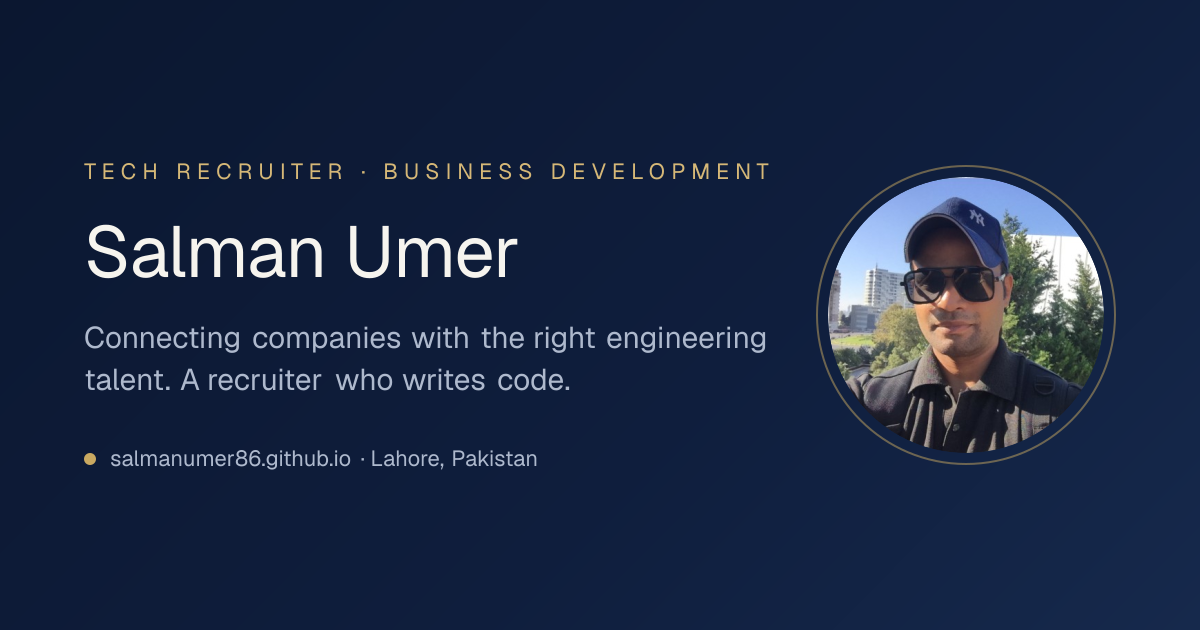
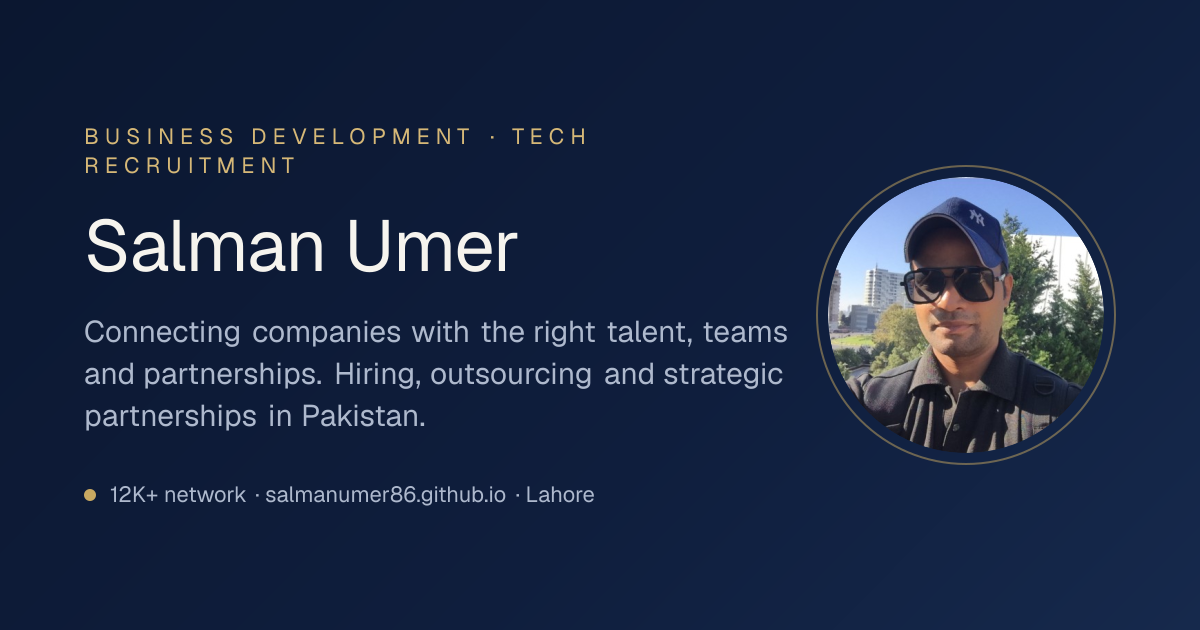
Reposition portfolio around business development and partnerships
- Hero, about, services and contact copy lead with BD, outsourcing and
  partnerships; recruiting and "writes code" stay as the differentiator
- Services reordered, LinkedIn Profile Optimization as its own card
- "Who I work with" list in the About section
- Stats and languages match the LinkedIn profile (12K+ network, 5 languages)
- Hero CTAs prefill the contact form topic (#contact?topic=…)
- Refreshed OG image, meta description, Person schema and blog teaser copy

diff --git a/app/page.tsx b/app/page.tsx
@@ -63,12 +63,21 @@ const testimonials: Testimonial[] = [
 ];
 
 const services = [
-  { no: "01", ic: "◎", title: "Tech Talent Sourcing & Screening", body: "Finding, vetting, and shortlisting software engineers who match your stack, seniority, and team culture, not just keywords on a résumé." },
-  { no: "02", ic: "</>", title: "Hiring Frontend & Full-Stack Developers", body: "Specialist support for hiring React, Next.js, and React Native talent. I speak the language, so I filter signal from noise before you spend interview time." },
-  { no: "03", ic: "✎", title: "Résumé / CV Review & Optimization", body: "Sharpening developer résumés so they clear the screening bar, with clear impact, the right keywords, and a story that recruiters and hiring managers act on." },
-  { no: "04", ic: "in", title: "LinkedIn Profile Improvement", body: "Positioning developers to be found and taken seriously, with a headline, summary, and experience that turn profile views into real conversations." },
-  { no: "05", ic: "➜", title: "Job-Search Guidance for Developers", body: "Practical coaching for engineers navigating the market: where to apply, how to interview, and how to evaluate an offer that's actually right for you." },
-  { no: "06", ic: "⇄", title: "Hiring Partnerships & Outsourcing", body: "Building long-term partnerships between companies and skilled development teams, so you get a reliable talent pipeline instead of one-off, transactional hires." },
+  { no: "01", ic: "⇄", title: "Business Development & Client Partnerships", body: "Opening doors between companies, technology talent and software development opportunities — warm introductions built on working relationships, not cold lists." },
+  { no: "02", ic: "◎", title: "Software Development Outsourcing", body: "Matching businesses with reliable development teams in Pakistan, and helping software companies win the right clients. I stay involved after the contract is signed." },
+  { no: "03", ic: "</>", title: "Tech Recruitment & Talent Sourcing", body: "Sourcing, screening and shortlisting frontend and full-stack engineers — React, Next.js, React Native — who match your stack, seniority and team, not just keywords." },
+  { no: "04", ic: "✚", title: "Technology Hiring Support", body: "Strengthening technical teams for startups, founders and CTOs: from a single senior hire to building out a whole squad, with a shortlist that holds up in the interview room." },
+  { no: "05", ic: "in", title: "LinkedIn Profile Optimization", body: "Positioning developers and founders to be found and taken seriously — a headline, summary and experience section that turn profile views into real conversations." },
+  { no: "06", ic: "✎", title: "CV Optimization & Career Guidance", body: "Sharpening developer résumés to clear the screening bar, plus practical guidance on where to apply, how to interview and how to evaluate an offer." },
+];
+
+const audiences = [
+  "Startups and growing companies",
+  "Founders and business owners",
+  "CTOs and engineering leaders",
+  "HR & talent acquisition teams",
+  "Software development companies",
+  "Companies seeking reliable outsourcing partners",
 ];
 
 const timeline = [
@@ -78,8 +87,8 @@ const timeline = [
     co: "Jazzari",
     now: true,
     body: [
-      "Handling the commercial side: finding clients, understanding what they need built, and matching them with engineers who can build it. Sourcing, screening and shortlisting developers, and building outsourcing partnerships with companies in Pakistan and abroad.",
-      "I also work hands-on in the frontend codebase — React, Next.js and React Native on Firebase — which is where the technical judgement comes from.",
+      "Jazzari is a software services company. I handle the commercial side: finding clients, understanding what they need built, and matching them with engineers who can build it — sourcing, screening and shortlisting engineers for client roles, building outsourcing and hiring partnerships with companies in Pakistan and abroad, and running the hiring process end to end.",
+      "Three years of writing frontend code at Jazzari is what got me into business development, and it's what makes me good at it. When a client describes what they want built, I can hear what they actually need, tell whether the scope matches the budget, and push back on a timeline that won't hold. Clients stay because the first conversation was honest.",
     ],
   },
   { date: "Nov 2018 — Aug 2023", title: "Family Business Operations", co: "Events Management", body: ["Stepped away from formal employment to look after the family events management business — day-to-day operations, client coordination, vendor and supplier relationships, and general administration."] },
@@ -101,7 +110,7 @@ const personLd = {
   worksFor: { "@type": "Organization", name: site.company },
   address: { "@type": "PostalAddress", addressLocality: site.location.city, addressCountry: site.location.countryCode },
   sameAs: [site.linkedin],
-  knowsAbout: ["Technical Recruiting", "Business Development", "React", "Next.js", "React Native", "Firebase"],
+  knowsAbout: ["Business Development", "B2B Partnerships", "Software Outsourcing", "Lead Generation", "Technical Recruiting", "React", "Next.js", "React Native"],
   alumniOf: { "@type": "CollegeOrUniversity", name: "University of the Punjab" },
 };
 
@@ -120,25 +129,25 @@ export default function Home() {
       <header className="hero">
         <div className="wrap hero-grid">
           <div className="hero-copy">
-            <span className="eyebrow">Tech Recruiter · Business Development</span>
+            <span className="eyebrow">Business Development · Tech Recruitment · Partnerships</span>
             <h1 className="hero-title">
-              Connecting companies with the <span className="gold">right</span> engineering talent.
+              Connecting companies with the <span className="gold">right</span> talent, teams and partnerships.
             </h1>
             <p className="hero-sub">
-              I help startups and growing companies hire skilled software engineers faster, and I guide developers toward the roles where they&apos;ll do their best work. A recruiter who writes code himself.
+              I help companies hire software engineers, outsource development and build long-term technology partnerships that create real business opportunities. And I write code myself, so I know who delivers.
             </p>
             <div className="hero-cta">
-              <a className="btn btn-gold" href="#contact">
+              <a className="btn btn-gold" href="#contact?topic=Hiring%20software%20engineers">
                 Let&apos;s talk hiring →
               </a>
-              <a className="btn btn-ghost" href="#services">
-                View what I do
+              <a className="btn btn-ghost" href="#contact?topic=Partnership%20%2F%20outsourcing">
+                Explore a partnership
               </a>
             </div>
             <div className="hero-trust">
               <span className="tdot" />
               <span>
-                <b>3 years</b> writing React alongside the recruiting
+<b>12K+ network</b> · working relationships with reputable software companies across Pakistan
               </span>
             </div>
             <div className="hero-loc">
@@ -151,7 +160,7 @@ export default function Home() {
             </div>
             <span className="badge">
               <span className="bdot" />
-              Recruiter <em className="grow">who codes</em>
+              Talent &amp; partnerships <em className="grow">that last</em>
             </span>
           </div>
         </div>
@@ -165,11 +174,11 @@ export default function Home() {
             <span>Writing React</span>
           </div>
           <div className="stat">
-            <b>Dual</b>
-            <span>Recruiter + developer</span>
+            <b data-count="12" data-suffix="K+">12K+</b>
+            <span>Professional network</span>
           </div>
           <div className="stat">
-            <b data-count="3">3</b>
+            <b data-count="5">5</b>
             <span>Languages spoken</span>
           </div>
           <div className="stat">
@@ -185,28 +194,37 @@ export default function Home() {
           <div>
             <span className="eyebrow">About</span>
             <h2 className="sec-title">
-              Hiring is about people <span className="em">and</span> product. I understand both.
+              People, product <span className="em">and</span> partnerships. I work across all three.
             </h2>
             <div className="about-body">
               <p>
-                I help startups and growing companies hire the right tech talent faster, and I guide developers toward the opportunities where they&apos;ll thrive. With experience across both <strong>technical and non-technical recruitment</strong>, I know what companies actually need and what separates a strong candidate from an average one.
+                I connect companies with the right technology talent and help build <strong>partnerships that create long-term business opportunities</strong>. I work with companies looking to hire software engineers, strengthen their technical teams, outsource development, or build reliable technology partnerships.
               </p>
               <p>
                 What makes my approach different is that I write code alongside the recruiting — <strong>React, Next.js and React Native</strong>, hands-on, week to week. I&apos;m not going to claim I can grade a senior engineer&apos;s architecture. What I can do is read their repo, follow the conversation, and ask a second question instead of nodding at a buzzword. That&apos;s usually enough to keep the wrong people off your shortlist, which is where most of the value in screening sits.
               </p>
+              <p>I&apos;m also passionate about helping developers navigate the job market through CV optimization, LinkedIn positioning, and career opportunities.</p>
               <p>Before recruiting I spent years in operations and database administration, running teams and processes rather than writing job specs. That&apos;s where the read on people comes from.</p>
               <p>
-                At <strong>Jazzari</strong>, I focus on business development and building lasting hiring partnerships between companies and skilled developers.
+                At <strong>Jazzari Software Solutions</strong>, I focus on business development and building connections between companies, technology talent, and software development opportunities.
               </p>
+            </div>
+            <div className="audiences">
+              <h4>Who I work with</h4>
+              <ul>
+                {audiences.map((a) => (
+                  <li key={a}>{a}</li>
+                ))}
+              </ul>
             </div>
           </div>
           <aside className="about-card">
             <h3>At a glance</h3>
-            <div className="row"><span>Role</span><b>Tech Recruiter &amp; BD Specialist</b></div>
-            <div className="row"><span>Company</span><b>Jazzari</b></div>
+            <div className="row"><span>Role</span><b>BD &amp; Tech Recruitment Specialist</b></div>
+            <div className="row"><span>Company</span><b>Jazzari Software Solutions</b></div>
             <div className="row"><span>Based in</span><b>Lahore, Pakistan</b></div>
             <div className="row"><span>Hands-on</span><b>React · Next.js · React Native</b></div>
-            <div className="row"><span>Also</span><b>Frontend Developer</b></div>
+            <div className="row"><span>Focus</span><b>Hiring · Outsourcing · Partnerships</b></div>
             <div className="row"><span>Status</span><b><span className="live">●</span> Open to collaborations</b></div>
           </aside>
         </div>
@@ -216,9 +234,9 @@ export default function Home() {
       <section className="section light" id="services" style={{ paddingTop: 0 }}>
         <div className="wrap">
           <div className="sec-head center reveal">
-            <span className="eyebrow center">What I help with</span>
-            <h2 className="sec-title">Recruiting, business development &amp; career guidance</h2>
-            <p>End-to-end support for the two sides of tech hiring: the companies who need talent, and the developers looking for their next move.</p>
+            <span className="eyebrow center">What I do</span>
+            <h2 className="sec-title">Business development, hiring &amp; outsourcing</h2>
+            <p>Support for companies that need talent, teams or partners — and for the developers and software houses on the other side of the table.</p>
           </div>
           <div className="svc-grid stagger-grid">
             {services.map((s) => (
@@ -361,12 +379,14 @@ export default function Home() {
         <div className="wrap le-grid reveal">
           <div>
             <span className="eyebrow">Languages</span>
-            <h2 className="sec-title">Fluent across three languages</h2>
+            <h2 className="sec-title">Five languages, three of them fluently</h2>
             <div className="langs" style={{ marginTop: 26 }}>
               {[
                 ["Urdu", "100%", "Native / Bilingual"],
                 ["Punjabi", "92%", "Full Professional"],
                 ["English", "85%", "Professional Working"],
+                ["Arabic", "40%", "Limited Working"],
+                ["Azerbaijani", "40%", "Limited Working"],
               ].map(([name, w, lvl]) => (
                 <div className="lang-row" key={name}>
                   <span className="name">{name}</span>
@@ -396,7 +416,7 @@ export default function Home() {
             <h2>
               Let&apos;s connect the <span className="gold">right</span> people.
             </h2>
-            <p>Hiring software engineers, looking for tech talent support, or a developer seeking your next opportunity? Send a message and I&apos;ll get back to you.</p>
+            <p>Hiring, building a technology team, looking for development support, or exploring a partnership? Send a message and I&apos;ll get back to you.</p>
             <div className="contact-methods">
               <a className="cmethod" href={`mailto:${site.email}`}>
                 <span className="ic"><Icon name="i-gmail" /></span>

diff --git a/components/ContactForm.tsx b/components/ContactForm.tsx
@@ -1,6 +1,6 @@
 "use client";
 
-import { useState } from "react";
+import { useEffect, useState } from "react";
 import { site } from "@/lib/site";
 
 // Submissions post to Web3Forms and are delivered to salmanumer.dev@gmail.com
@@ -12,6 +12,20 @@ type Note = { type: "ok" | "err"; msg: string } | null;
 export function ContactForm() {
   const [note, setNote] = useState<Note>(null);
   const [sending, setSending] = useState(false);
+  const [topic, setTopic] = useState("");
+
+  // Hero CTAs link to "#contact?topic=…" — prefill the topic field and scroll to the form.
+  useEffect(() => {
+    const apply = () => {
+      const m = window.location.hash.match(/^#contact\?topic=(.+)$/);
+      if (!m) return;
+      setTopic(decodeURIComponent(m[1]));
+      document.getElementById("contact")?.scrollIntoView({ behavior: "smooth" });
+    };
+    apply();
+    window.addEventListener("hashchange", apply);
+    return () => window.removeEventListener("hashchange", apply);
+  }, []);
 
   const onSubmit = async (e: React.FormEvent<HTMLFormElement>) => {
     e.preventDefault();
@@ -36,6 +50,7 @@ export function ContactForm() {
       const r = await fetch(ENDPOINT, { method: "POST", headers: { Accept: "application/json" }, body: data });
       if (r.ok) {
         form.reset();
+        setTopic("");
         setNote({ type: "ok", msg: `Thanks, ${name}! Your message has been sent — I'll get back to you soon.` });
       } else {
         setNote({ type: "err", msg: `Something went wrong. Please email ${site.email} directly.` });
@@ -66,7 +81,7 @@ export function ContactForm() {
         <label htmlFor="cf_company">
           Company / topic <span className="opt">(optional)</span>
         </label>
-        <input type="text" id="cf_company" name="company" placeholder="Hiring React developers" />
+        <input type="text" id="cf_company" name="company" placeholder="Hiring React developers / outsourcing / partnership" value={topic} onChange={(e) => setTopic(e.target.value)} />
       </div>
       <div className="field">
         <label htmlFor="cf_message">Message</label>

diff --git a/lib/site.ts b/lib/site.ts
@@ -1,16 +1,16 @@
 export const site = {
   url: "https://salmanumer86.github.io",
   name: "Salman Umer",
-  title: "Salman Umer — Tech Recruiter & Business Development Specialist",
+  title: "Salman Umer — Business Development & Tech Recruitment Specialist",
   description:
-    "Salman Umer — Tech Recruiter & Business Development Specialist based in Lahore. A tech recruiter who writes React. Connecting companies with software engineers, and guiding developers toward the right opportunities.",
+    "Salman Umer — Business Development & Tech Recruitment Specialist, Lahore. I connect companies with the right technology talent, outsourcing teams and long-term partnerships — and I write code myself, so I know who delivers.",
   email: "salmanumer.dev@gmail.com",
   phone: "+923010147927",
   phoneDisplay: "+92 301 0147 927",
   linkedin: "https://www.linkedin.com/in/salmanumer",
   company: "Jazzari Software Solutions",
   location: { city: "Lahore", country: "Pakistan", countryCode: "PK" },
-  jobTitle: "Tech Recruiter & Business Development Specialist",
+  jobTitle: "Business Development & Tech Recruitment Specialist",
 } as const;
 
 export const absoluteUrl = (path = "/") => new URL(path, site.url).toString();

diff --git a/components/Shell.tsx b/components/Shell.tsx
@@ -47,7 +47,7 @@ export function PageHero({ eyebrow, title, blurb, crumbs }: { eyebrow: string; t
 
 export function PostCta({ kind }: { kind: "hiring" | "developer" | "job" }) {
   const copy = {
-    hiring: { h: "Hiring engineers?", p: "I source, screen and shortlist React, Next.js and full-stack developers — and I read the repo before you spend interview time.", cta: "Let's talk hiring →", href: "/#contact" },
+    hiring: { h: "Hiring, outsourcing or exploring a partnership?", p: "I connect companies with vetted engineers and reliable development teams in Pakistan — and I read the repo before you spend interview time.", cta: "Let's talk →", href: "/#contact" },
     developer: { h: "Want a second pair of eyes?", p: "I review developer résumés and LinkedIn profiles, and help you plan a job search that actually lands interviews.", cta: "Get in touch →", href: "/#contact" },
     job: { h: "Not quite the right fit?", p: `Tell me what you're looking for and I'll keep you in mind for the next role. Or email ${site.email} directly.`, cta: "Send a message →", href: "/#contact" },
   }[kind];

diff --git a/components/ComingSoon.tsx b/components/ComingSoon.tsx
@@ -14,8 +14,8 @@ const copy: Record<
         Notes from <span className="gold">both sides</span> of the hiring table.
       </>
     ),
-    body: "I'm writing about tech hiring the way it actually happens: how I screen React developers, what companies get wrong in the first month with a remote team, and what it really takes to hire in Pakistan.",
-    topics: ["How I screen React developers", "Hiring in Pakistan: what to expect", "Why keyword screening fails", "Building an outsourcing partnership"],
+    body: "I'm writing about hiring and partnerships the way they actually happen: how to choose an outsourcing partner, what companies get wrong in the first month with a remote team, and how I screen the engineers who end up on your shortlist.",
+    topics: ["Choosing an outsourcing partner in Pakistan", "How I screen React developers", "Warm introductions vs cold outreach", "What a good partnership looks like"],
     cta: { label: "Follow on LinkedIn for updates", href: site.linkedin },
     alt: "Hiring right now? Skip the reading and",
   },

diff --git a/app/globals.css b/app/globals.css
@@ -576,3 +576,11 @@ h1.hero-title .gold,.contact h2 .gold{
 .soon-rss{margin-top:20px;font-size:13.5px;color:var(--muted)}
 .soon-rss a{color:var(--gold);text-decoration:underline;text-underline-offset:3px}
 @media(prefers-reduced-motion:reduce){.soon-ring,.soon-core,.soon-dot,.live-dot{animation:none}}
+
+/* ---------- WHO I WORK WITH (about) ---------- */
+.audiences{margin-top:8px;padding-top:26px;border-top:1px solid var(--border-soft)}
+.audiences h4{font-size:12px;letter-spacing:2px;text-transform:uppercase;color:var(--eyebrow);font-weight:600;margin-bottom:14px}
+.audiences ul{list-style:none;display:grid;grid-template-columns:1fr 1fr;gap:10px 22px}
+@media(max-width:560px){.audiences ul{grid-template-columns:1fr}}
+.audiences li{position:relative;padding-left:20px;font-size:15px;color:var(--text-dim);line-height:1.5}
+.audiences li::before{content:'';position:absolute;left:0;top:9px;width:8px;height:8px;border-radius:50%;background:var(--gold);box-shadow:0 0 0 3px rgba(201,169,97,.18)}

diff --git a/lib/content.ts b/lib/content.ts
@@ -89,9 +89,9 @@ export function isJobOpen(job: JobMeta, now = new Date()) {
 
 export const sectionLabel: Record<Section, { title: string; eyebrow: string; blurb: string }> = {
   blog: {
-    title: "Articles on tech hiring, from both sides of the table",
+    title: "Articles on hiring, outsourcing and partnerships",
     eyebrow: "Blog",
-    blurb: "Notes on recruiting, screening, and building teams — written by someone who also ships React.",
+    blurb: "Notes on business development, tech recruiting and building teams in Pakistan — written by someone who also ships React.",
   },
   advice: {
     title: "Career advice for developers",

diff --git a/components/Nav.tsx b/components/Nav.tsx
@@ -85,7 +85,7 @@ export function Nav() {
         <div className="nav-right">
           <ThemeToggle />
           <Link href="/#contact" className="cta">
-            Let&apos;s talk hiring →
+            Let&apos;s talk business →
           </Link>
           <button
             type="button"
